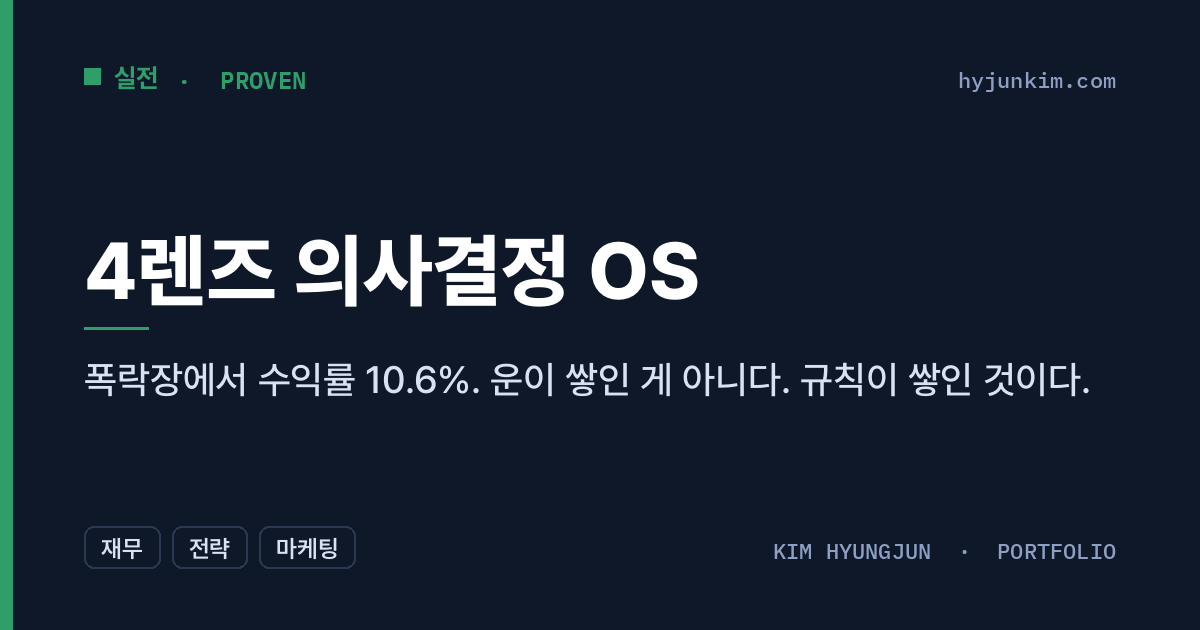
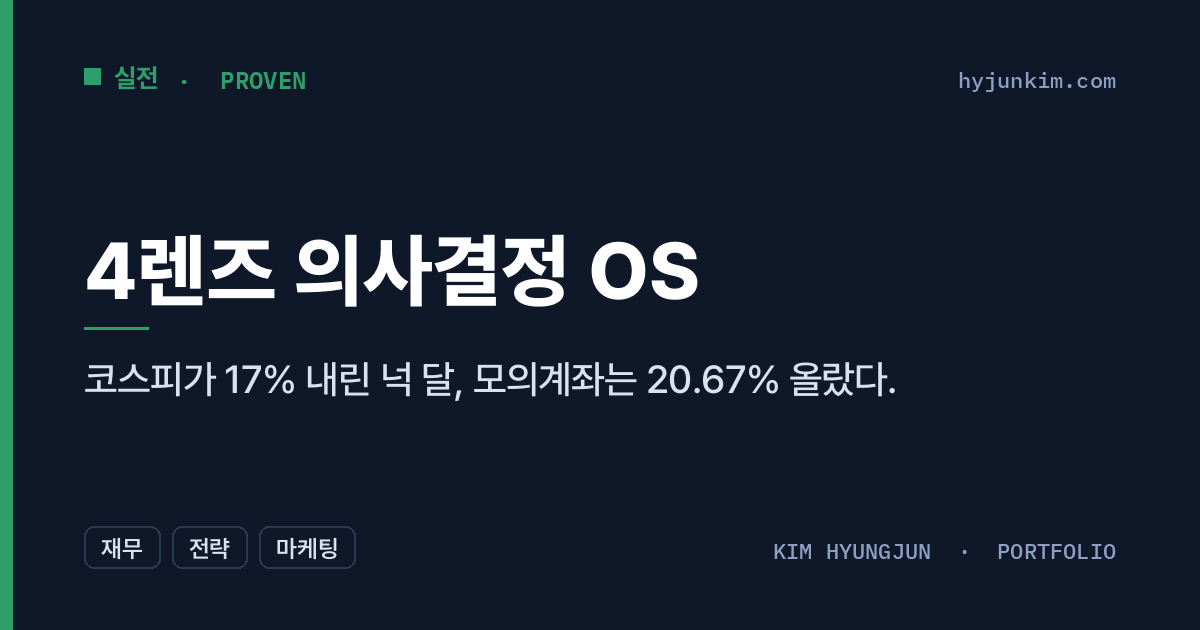
가치투자대회 페이지 2단계: 틀린 사실 정정, 허브 카드를 가치투자대회 중심으로
- 운용 기간을 6/1~10/2로 정정(헤더, 봉인 타임라인, 기록 마커, 푸터)
- 6/8 오리온 카드 '사흘' → 이틀 뒤(6/10), 6/8 한국콜마 카드에 지정가 주문 명시
- 원칙 06의 '실적 발표일은 확정된 일정' 문구 정정, '카드는 고쳐 쓰지 않는다' 문장 삭제
- 허브 OS 카드 문구와 decision-os 공유 이미지(og.png)를 가치투자대회 결과 기준으로 교체

Claude-Session: https://claude.ai/code/session_011CMpAUYrkemQRymdod4gC9

Changed region(s): [[0.0617, 0.573, 0.925, 0.6333]]

diff --git a/decision-os/value.html b/decision-os/value.html
@@ -348,7 +348,7 @@ footer .pos em{font-style:normal;color:var(--gate)}
   <div class="board">
     <span>DOMAIN <b>가치투자 실전 기록</b></span>
     <span>CONTEST <b>제10회 전국대학생 가치투자대회 · 모의계좌 1억 원(대회 규정)</b></span>
-    <span>TIMELINE <b>봉인 6/9 · 제출 6/30 · 운용 7/1–10/2</b></span>
+    <span>TIMELINE <b>운용 6/1–10/2 · 봉인 6/9 · 제출 6/30</b></span>
     <span>STATUS <b><span class="live done"><i></i><span>종료 · 수익률 +20.67% · 장려상</span></span></b></span>
   </div>
   <h1>판단은 잠겼다.<br>채점은 시장이 한다<span class="y">.</span></h1>
@@ -509,7 +509,7 @@ footer .pos em{font-style:normal;color:var(--gate)}
     <div class="seal-arrow">→</div>
     <div class="sn hot"><span class="sd">2026.06.30</span><span class="sv">공식 제출</span><span class="sc">판단 잠금 완료</span></div>
     <div class="seal-arrow">→</div>
-    <div class="sn"><span class="sd">07.01–10.02</span><span class="sv">운용·채점</span><span class="sc">시장의 시간</span></div>
+    <div class="sn"><span class="sd">2026.10.02</span><span class="sv">대회 마감</span><span class="sc">6/1부터 넉 달 운용</span></div>
   </div>
   <div class="zero" style="border-left-color:var(--gate)">
     <div class="zt" style="color:var(--gate-deep)">DECLARATION · 잠금 선언</div>
@@ -530,14 +530,14 @@ footer .pos em{font-style:normal;color:var(--gate)}
 <section id="test" class="alt"><div class="wrap">
   <div class="eyebrow">PART 2 · THE TEST</div>
   <h2>잠긴 계획이 시장을 만난다</h2>
-  <p class="lead">아래는 봉인 이후의 모든 판단이다. 매수만이 아니라 관망과 규율까지, 시간 순서 그대로 쌓았다. 카드는 지우거나 고쳐 쓰지 않는다.</p>
+  <p class="lead">아래는 봉인 이후의 모든 판단이다. 매수만이 아니라 관망과 규율까지, 시간 순서 그대로 쌓았다.</p>
   <div class="rules">
     <div class="rule"><div class="rn">원칙 01</div><h4>계획 봉인</h4><p>봉인 후의 매매·매크로·실적 변화는 기록만 하고, 계획을 소급 수정하지 않는다. 사후확신편향을 막는 장치다.</p></div>
     <div class="rule"><div class="rn">원칙 02</div><h4>매크로는 계기다</h4><p>금리·환율·관세는 가치의 입력값이 아니라 가격이 적정가에 닿는 계기다. 지수가 빠져서 사지 않는다. 시장 배경은 기록일 뿐 매매의 사유가 아니다.</p></div>
     <div class="rule"><div class="rn">원칙 03</div><h4>재산정 조건</h4><p>매크로가 특정 종목의 현금흐름을 실제로 바꿀 때만 적정가와 안전마진을 다시 계산한다. 경로가 없으면 재산정하지 않는다.</p></div>
     <div class="rule"><div class="rn">원칙 04</div><h4>내러티브 테스트</h4><p>주가가 움직이면 먼저 묻는다. 이 움직임에 대응하는 내러티브 변화가 있는가. 없으면 수급 노이즈로 분류하고 안전마진을 건드리지 않는다.</p></div>
     <div class="rule"><div class="rn">원칙 05</div><h4>평온할 때 지정가</h4><p>하락 당일의 판단은 공포에, 급등 당일의 판단은 탐욕에 왜곡된다. 매수와 매도 주문 모두 평온한 시장에서 미리 걸어둔다.</p></div>
-    <div class="rule"><div class="rn">원칙 06</div><h4>거시는 사후 기록</h4><p>금통위·FOMC를 예정으로 적지 않는다. 실제로 펀더멘털을 건드렸을 때만 반응을 기록한다. 실적 발표일은 확정된 자기 일정이라 확인일로 미리 적는다.</p></div>
+    <div class="rule"><div class="rn">원칙 06</div><h4>거시는 사후 기록</h4><p>금통위·FOMC를 예정으로 적지 않는다. 실제로 펀더멘털을 건드렸을 때만 반응을 기록한다. 실적 발표 예상일은 미리 적어 두고 그날 확인한다.</p></div>
     <div class="rule"><div class="rn">원칙 07</div><h4>환산과 본업 분리</h4><p>해외법인 실적은 현지 통화 성장률로 본업을 판정한다. 원화 성장의 상당 부분은 환산효과일 수 있다.</p></div>
   </div>
 
@@ -568,7 +568,7 @@ footer .pos em{font-style:normal;color:var(--gate)}
       <div class="jdate">2026.06.08</div>
       <div class="jhead"><span class="dot c-kolmar"></span><b>한국콜마 1차 매수</b> <span class="jtag buy">매수</span><span class="jlens">④ 베팅한다</span></div>
       <div class="jrow"><span class="jl">트리거</span><span>KOSPI 역대 아홉 번째 서킷브레이커 발동, 지수 급락. 한국콜마가 봉인 매수 구간에 도달했다.</span></div>
-      <div class="jrow"><span class="jl">판단</span><span><b>78,000원 × 256주 매수 (코어 20%).</b></span></div>
+      <div class="jrow"><span class="jl">판단</span><span><b>78,000원 × 256주 매수 (코어 20%).</b> 미리 걸어 둔 지정가 주문이었다.</span></div>
       <div class="jrow"><span class="jl">근거</span><span>적정가 중심 115,000원 대비 약 32% 안전마진 구간 도달. 보수적 하단 96,000원마저 하회하는 가격이다.</span></div>
       <div class="jrow"><span class="jl">시점</span><span>봉인(6/9) 전날의 체결이다. 매수의 기준이 된 밴드와 진입 구간은 다음 날 수정 없이 그대로 봉인됐다. <b>봉인은 매매의 시작선이 아니라 판단 기준의 동결선이다.</b></span></div>
       <div class="jctx">배경 · 서킷브레이커 발동일. 급락은 배경일 뿐, 방아쇠는 안전마진이다</div>
@@ -579,7 +579,7 @@ footer .pos em{font-style:normal;color:var(--gate)}
       <div class="jhead"><span class="dot c-orion"></span><b>오리온 미체결</b> <span class="jtag watch">관망</span><span class="jlens">③ 검증한다 · ④ 베팅한다</span></div>
       <div class="jrow"><span class="jl">트리거</span><span>같은 날 오리온이 매수 구간(124,000~127,000원) 가까이 내려왔다가 반등했다.</span></div>
       <div class="jrow"><span class="jl">판단</span><span><b>사지 못했다.</b> 미리 걸어둔 지정가 주문이 없었기 때문이다.</span></div>
-      <div class="jrow"><span class="jl">근거</span><span>급락 당일의 수동 대응은 늦고, 왜곡된다. 이 실패가 규칙이 됐다. <b>모든 매수 트리거는 시장이 평온할 때 지정가로 미리 걸어둔다.</b> 이 규칙은 사흘 만에 첫 체결로 이어진다.</span></div>
+      <div class="jrow"><span class="jl">근거</span><span>급락 당일의 수동 대응은 늦고, 왜곡된다. 이 실패가 규칙이 됐다. <b>모든 매수 트리거는 시장이 평온할 때 지정가로 미리 걸어둔다.</b> 이틀 뒤인 6월 10일, 이 방식으로 건 CJ제일제당 주문이 처음 체결됐다.</span></div>
       <div class="jctx">배경 · 실패의 기록. 움직이지 않은 판단도 판단이다</div>
     </article></div>
 
@@ -653,7 +653,6 @@ footer .pos em{font-style:normal;color:var(--gate)}
       <div class="jrow"><span class="jl">참고</span><span>한국콜마는 목표 40% 중 코어 20%만 확보한 상태다. 잔여 증액 트리거(가격 또는 8/7 실적)는 봉인본대로 대기한다. <b>봉인본은 어떤 가격에든 채우겠다고 약속한 적이 없다.</b></span></div>
     </article></div>
 
-    <div class="jitem k-mark"><div class="jmark">2026.07.01 · EVALUATION BEGINS · 운용 평가 시작 <small>7/1–10/2, 시장이 채점하는 3개월</small><span class="mline"></span></div></div>
 
     <div class="jitem k-watch" data-co="kolmar" data-kind="watch rule" data-lens="l2 l3 l4"><article class="jcard watch">
       <div class="jdate">2026.07.02</div>
@@ -778,7 +777,7 @@ footer .pos em{font-style:normal;color:var(--gate)}
       <li><b>정본 →</b><span>수익률 곡선을 재현하지 않고 HTS 원가 스냅샷을 표로 제시했다. 없는 데이터를 그리지 않는다.</span></li>
     </ul>
   </div>
-  <div class="byline">VALUE · KIM HYUNGJUN · 2026 · 봉인 2026.06.09 · 운용 2026.07.01–10.02</div>
+  <div class="byline">VALUE · KIM HYUNGJUN · 2026 · 봉인 2026.06.09 · 운용 2026.06.01–10.02</div>
 </div></footer>
 
 <div class="lb" id="lb"><button class="lbx" id="lbx" aria-label="닫기">✕</button><img id="lbImg" alt=""><div class="lbhint">이미지를 다시 누르면 더 확대된다</div></div>

diff --git a/index.html b/index.html
@@ -402,8 +402,8 @@ footer .wrap{display:flex;flex-wrap:wrap;justify-content:space-between;gap:8px 2
         <div class="card-main">
           <p class="ctx">판단 체계 · 투자·기업 분석</p>
           <div class="top"><h3><a class="card-link" href="decision-os/">4렌즈 의사결정 OS<span class="arr" aria-hidden="true"> →</span></a></h3><span class="badge award">가치투자대회 장려상</span><span class="badge rank"></span></div>
-          <p class="hook">폭락장에서 수익률 10.6%. 운이 쌓인 게 아니다. 규칙이 쌓인 것이다.</p>
-          <p class="metaline">2026.03 – 10 · 개인 (대회는 3인 팀) · 모의투자 상위 3.7% 실측</p>
+          <p class="hook">코스피가 17% 내린 넉 달, 모의계좌는 20.67% 올랐다. 이익 추정은 넷 중 셋이 빗나갔지만, 나는 미리 정한 기준대로 사고팔았다.</p>
+          <p class="metaline">2026.03 – 10 · 개인 (경영 시뮬레이션은 3인 팀) · 한투 모의투자 상위 3.7% 실측</p>
           <div class="tags"><span>재무</span><span>전략</span><span>마케팅</span></div>
         </div>
         <p class="card-sub"><span class="card-sub-l">세부 페이지</span><a href="decision-os/dvmp.html">경영 시뮬레이션</a><a href="decision-os/invest.html">모의투자·기업 분석</a><a href="decision-os/value.html">가치투자 판단 기록</a><a href="decision-os/transfer.html">전이 증명</a></p>
